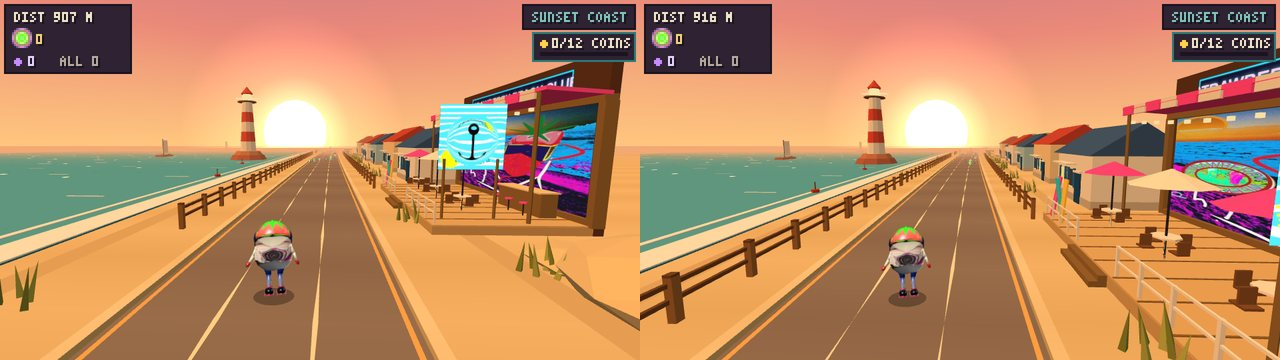
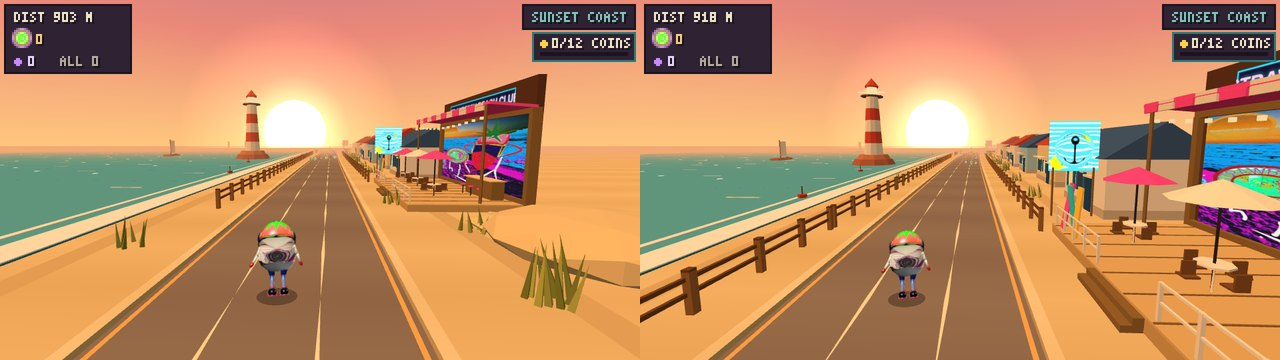
Move the anchor sign away from the strawberry backdrop
The EL MEDITERRANEOS anchor sign stood in front of the strawberry picture and covered part of it
from the road. It now stands apart on two posts planted in the ground, 3.45 m beyond the far end
of the terrace and nearer the road (SIGN_Z), still facing the runner. The pictures are unchanged.
The coast zone test checks the gap (>= 3 m); README and the club still updated.

diff --git a/tests/qa3d_coastzone.js b/tests/qa3d_coastzone.js
@@ -90,10 +90,11 @@ const res = []; const T = (n, ok, i = '') => { res.push(ok); console.log((ok ? '
     out.uv = [uv[0], uv[1], uv[4], uv[5]].map(v => +v.toFixed(4)); out.cell = [cell.u0, cell.v0, cell.u1, cell.v1].map(v => +v.toFixed(4)); out.extra = (m.extra || []).length;
     // the anchor sign: a panel across the road (a plane of constant z) that the runner meets head on, the whole 'anchor' cell on it
     const an = COAST_ASSETS.anchor; out.anchor = { ar: +an.ar.toFixed(2), uv: [uv[8], uv[9]].map(v => +v.toFixed(4)), z: [4, 5, 6, 7].map(v => +pos[v * 3 + 2].toFixed(2)) };
+    out.gap = +(Math.min(pos[2], pos[5]) - pos[4 * 3 + 2]).toFixed(2);                // between the far end of the strawberry backdrop and the anchor sign (along the road)
     out.dropped = r.dropped; return out;
   });
-  T('the Strawberry Beach Club stands on the land side of the coast road, in place of a cottage (' + CL.slots + ' in a 420 m piece): a terrace under parasols whose BACKDROP is your strawberry picture stretched ' + CL.stretch + ' times wider (a ' + CL.back.w + ' x ' + CL.back.h + ' m panel for a ' + 'square picture, all of it shown: uv ' + CL.uv.join(',') + ' of ' + CL.cell.join(',') + '), a neon name board and, across the entrance, your EL MEDITERRANEOS sign (' + CL.anchor.z.join(' / ') + '); the atlas loaded (' + CL.loaded + '), one club in view with ' + CL.kids + ' meshes, nothing dropped',
-    CL.slots >= 1 && CL.landSide && CL.noCottage && CL.loaded && CL.sign && CL.used === 1 && CL.kids >= 3 && CL.back.w >= 11 && CL.back.h >= 4.4 && CL.stretch >= 2.3 && CL.stretch <= 2.8 && JSON.stringify(CL.uv) === JSON.stringify([CL.cell[0], CL.cell[1], CL.cell[2], CL.cell[3]]) && CL.extra === 1 && new Set(CL.anchor.z).size === 1 && CL.dropped === 0, JSON.stringify(CL));
+  T('the Strawberry Beach Club stands on the land side of the coast road, in place of a cottage (' + CL.slots + ' in a 420 m piece): a terrace under parasols whose BACKDROP is your strawberry picture stretched ' + CL.stretch + ' times wider (a ' + CL.back.w + ' x ' + CL.back.h + ' m panel for a ' + 'square picture, all of it shown: uv ' + CL.uv.join(',') + ' of ' + CL.cell.join(',') + '), a neon name board and, standing apart from it (' + CL.gap + ' m beyond the end of the backdrop, so it never covers the picture), your EL MEDITERRANEOS sign (' + CL.anchor.z.join(' / ') + '); the atlas loaded (' + CL.loaded + '), one club in view with ' + CL.kids + ' meshes, nothing dropped',
+    CL.slots >= 1 && CL.landSide && CL.noCottage && CL.loaded && CL.sign && CL.used === 1 && CL.kids >= 3 && CL.back.w >= 11 && CL.back.h >= 4.4 && CL.stretch >= 2.3 && CL.stretch <= 2.8 && JSON.stringify(CL.uv) === JSON.stringify([CL.cell[0], CL.cell[1], CL.cell[2], CL.cell[3]]) && CL.extra === 1 && new Set(CL.anchor.z).size === 1 && CL.gap >= 3 && CL.dropped === 0, JSON.stringify(CL));
   // ================================================================ 3c. Club Delphi: a whitewashed cabin with a dolphin SCULPTURE leaping on a pedestal and the drawn dolphin SIGN across its entrance (original drawings: none of the uploaded art is used or changed)
   const DL = await pg.evaluate(async () => {
     const out = {}; const { g, P } = H.at('coastSunset', 0); const r = g.r;

diff --git a/src3d/env_coast.js b/src3d/env_coast.js
@@ -37,6 +37,8 @@ window.ENV3D = window.ENV3D || {};
   // THE STRAWBERRY BEACH CLUB: a terrace on a wooden deck beside the road (one slot, 12 m, on the land side, about twice a coastal zone): white railings with surfboards leaning on them, tables under pink and
   // white parasols, a low bar, string lights, a pink canopy with a scalloped fringe, and, as the BACKDROP of the terrace, the user's 'STRAWBERRY WEEKEND' picture stretched wide (a 11.5 x 4.55 m panel
   // for a square picture: 2.5 times wider than it was), under a neon name board; at the entrance, on two posts, the user's 'EL MEDITERRANEOS' sign, facing the runner coming along the road.
+  // the anchor sign stands apart from the strawberry backdrop (which spans z -5.75 .. 5.75): 3.45 m beyond its far end, nearer the road, so that from the road it never covers the picture
+  const SIGN_Z = -9.2;
   const club = () => {
     const p = [], L = SLOT + 0.2, WOOD = '#c9a56a', WOODD = '#8a6a3c', PINK = '#ff4fa8', WH = '#f4eee0', IRON = '#2a2630';
     p.push(Kit.box(6.2, 0.35, L, 3.1, 0, 0, WOOD), Kit.box(6.3, 0.06, L + 0.1, 3.15, 0.35, 0, '#d8b67c'));
@@ -51,8 +53,8 @@ window.ENV3D = window.ENV3D || {};
     const um = (x, z, c) => p.push(Kit.cyl(0.04, 0.04, 2.4, x, 0.35, z, IRON, { seg: 4 }), Kit.cone(1.2, 0.5, x, 2.7, z, c, { seg: 8 }), Kit.cyl(0.42, 0.42, 0.05, x, 1.1, z, WH, { seg: 8 }), Kit.cyl(0.04, 0.04, 0.75, x, 0.35, z, WH, { seg: 4 }));
     [[2.2, -3.4, PINK], [2.2, 0.2, WH], [2.2, 3.6, PINK]].forEach(([x, z, c]) => { um(x, z, c); for (const [dx, dz] of [[-0.6, 0], [0.6, 0], [0, -0.6], [0, 0.6]]) p.push(Kit.box(0.36, 0.05, 0.36, x + dx, 0.8, z + dz, '#7a5230'), Kit.box(0.34, 0.4, 0.05, x + dx, 0.8, z + dz + (dz ? (dz < 0 ? -0.18 : 0.18) : 0), '#7a5230')); });
     p.push(Kit.box(0.7, 1.1, 3.2, 5.3, 0.35, 3.3, WOODD), Kit.box(0.9, 0.06, 3.4, 5.25, 1.45, 3.3, '#e8d2a0')); for (const z of [2.2, 3.3, 4.4]) p.push(Kit.cyl(0.18, 0.18, 0.06, 4.55, 0.95, z, PINK, { seg: 8 }), Kit.cyl(0.03, 0.03, 0.6, 4.55, 0.35, z, IRON, { seg: 4 }));   // the bar and its stools
-    for (const x of [0.75, 2.95]) p.push(Kit.cyl(0.06, 0.06, 2.6, x, 0.35, 5.0, WOODD, { seg: 6 }));                                       // the two posts of the entrance sign
-    const sp = CoastArt.join([CoastArt.panel('strawberry', 6.15, -5.75, 5.75, 0.55, 5.1), CoastArt.blade('anchor', 5.0, 0.5, 3.2, 2.5, 5.2)]);                // the stretched backdrop, the club's sign
+    for (const x of [0.75, 2.95]) p.push(Kit.cyl(0.06, 0.06, 2.95, x, -0.25, SIGN_Z, WOODD, { seg: 6 }));                                  // the two posts of the anchor sign, planted in the ground
+    const sp = CoastArt.join([CoastArt.panel('strawberry', 6.15, -5.75, 5.75, 0.55, 5.1), CoastArt.blade('anchor', SIGN_Z, 0.5, 3.2, 2.5, 5.2)]);                // the stretched backdrop, the club's sign
     return { merged: Kit.merge(p), sprite: sp, material: () => CoastArt.material(), extra: [{ sprite: CoastArt.signPanel(6.1, -4.5, 4.5, 5.55, 6.675), material: () => CoastArt.signMaterial() }] };
   };
 

diff --git a/README.md b/README.md
@@ -55,7 +55,7 @@ A third set of 17 pictures (`src3d/neon_assets3.js`, one alpha atlas) adds 17 mo
 
 ![coast lights](docs/screenshots/coast-zone-sheet.jpg)
 
-**The Strawberry Beach Club** (a prop of the coast, about twice per coastal piece, on the land side in place of a cottage: `club` in `src3d/env_coast.js`, `src3d/coast_art.js`, `src3d/coast_assets.js` made by `tools/make_coast_assets.py`). A terrace on a wooden deck: white railings with surfboards leaning on them, tables under pink and white parasols, a low bar with stools, a string of lights, a pink canopy with a scalloped fringe. **Its backdrop is your 'STRAWBERRY WEEKEND' picture, stretched wide** (a 11.5 x 4.55 m panel for a square picture, 2.5 times wider than it was; only scaled, never recoloured), under a drawn neon name board 'STRAWBERRY BEACH CLUB'; across the entrance, on two posts, your 'EL MEDITERRANEOS' anchor sign, facing the runner. It appears under all four lights and on the coast branches of the junctions (same prop set).
+**The Strawberry Beach Club** (a prop of the coast, about twice per coastal piece, on the land side in place of a cottage: `club` in `src3d/env_coast.js`, `src3d/coast_art.js`, `src3d/coast_assets.js` made by `tools/make_coast_assets.py`). A terrace on a wooden deck: white railings with surfboards leaning on them, tables under pink and white parasols, a low bar with stools, a string of lights, a pink canopy with a scalloped fringe. **Its backdrop is your 'STRAWBERRY WEEKEND' picture, stretched wide** (a 11.5 x 4.55 m panel for a square picture, 2.5 times wider than it was; only scaled, never recoloured), under a drawn neon name board 'STRAWBERRY BEACH CLUB'; your 'EL MEDITERRANEOS' anchor sign stands apart on two posts planted in the ground, 3.45 m beyond the far end of the terrace and nearer the road, facing the runner, so that it never covers the strawberry picture (`SIGN_Z` in `src3d/env_coast.js`). It appears under all four lights and on the coast branches of the junctions (same prop set).
 
 ![strawberry beach club](docs/screenshots/coast-club.jpg)
 
